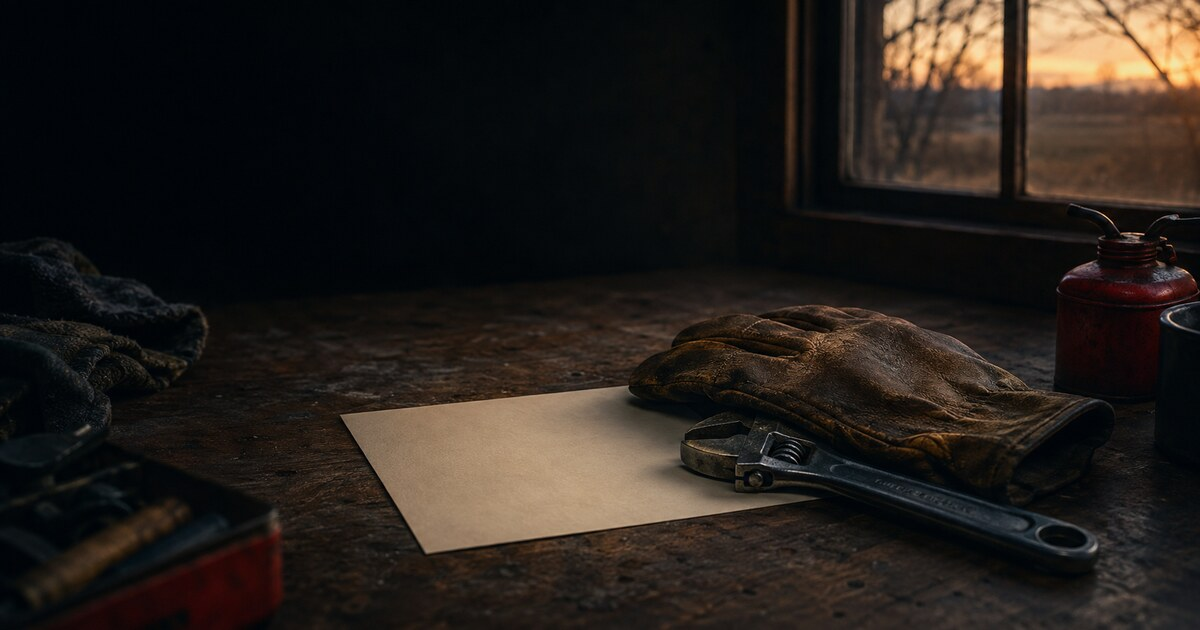
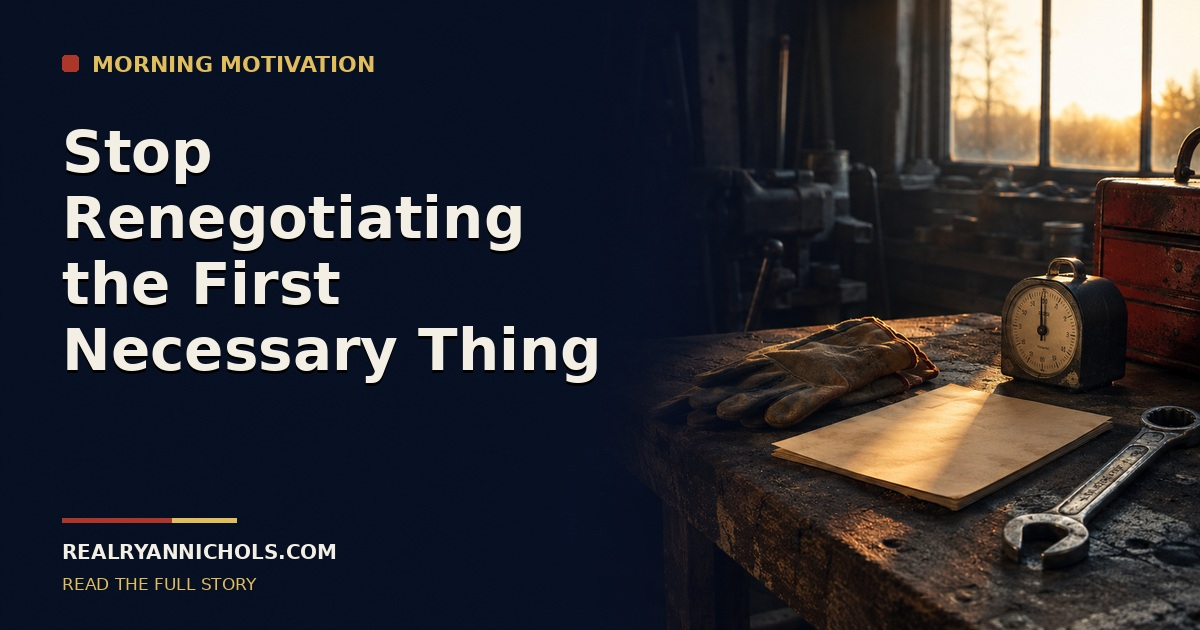
Fix article feed and OG cards

diff --git a/website/components/PostCard.tsx b/website/components/PostCard.tsx
@@ -220,7 +220,12 @@ function PostCardBody({
   // as the card visual suppresses the thumbnail but then truncates before the
   // embed, leaving a text-only row. Only render body visuals when no assigned
   // card image exists.
-  const cardImage = post.thumbnail_url ?? fallbackImage ?? null;
+  // The purpose-built OG asset is also valid feed art. Some posts are created
+  // directly in the CMS and historically received og_image_url without a
+  // duplicated thumbnail_url; ignoring it produced a text-only card even
+  // though the post already had a complete social image.
+  const cardImage =
+    post.thumbnail_url ?? post.og_image_url ?? fallbackImage ?? null;
   return (
     <>
       <h2 className="text-2xl sm:text-3xl font-semibold tracking-tight">
